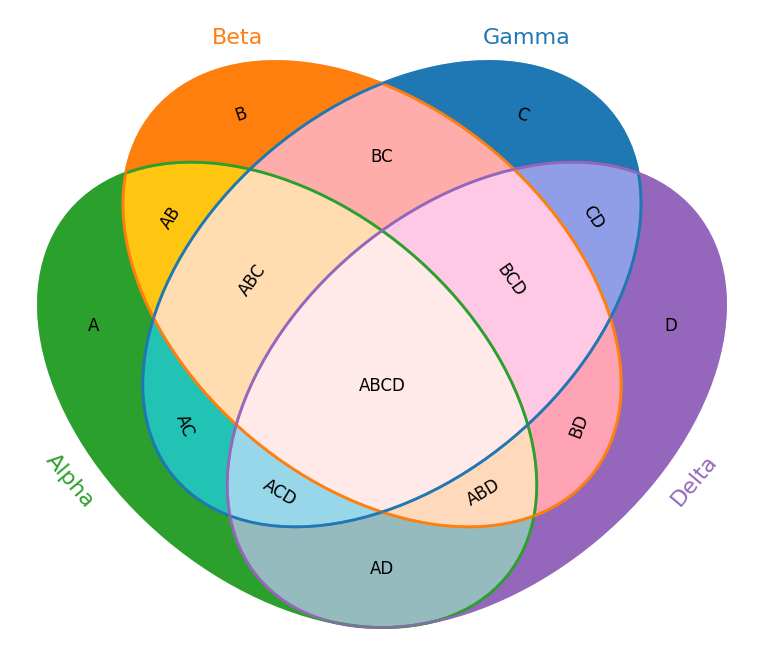
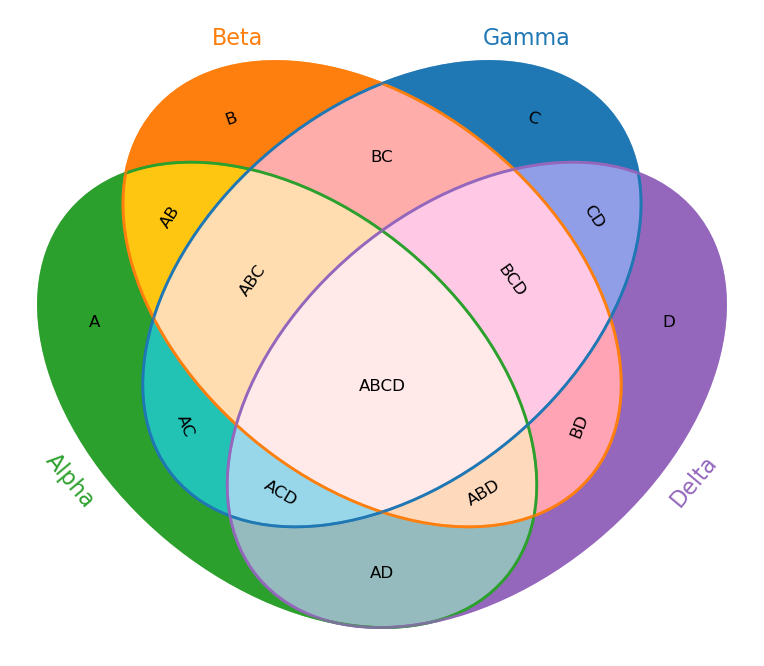
Added visual center calc for label pos

diff --git a/yamvp/main.py b/yamvp/main.py
@@ -22,7 +22,8 @@ import matplotlib.pyplot as plt
 from matplotlib.figure import Figure
 from matplotlib.patches import Ellipse
 from matplotlib.colors import to_rgb
-
+from scipy.ndimage import distance_transform_edt, binary_erosion
+from scipy.cluster.hierarchy import fclusterdata
 
 # ============================================================================
 # Utility helpers (standalone; no external module dependency)
@@ -50,6 +51,15 @@ def _centroid(mask: np.ndarray, X: np.ndarray, Y: np.ndarray) -> Optional[Tuple[
     yy, xx = np.where(mask)
     return (X[yy, xx].mean(), Y[yy, xx].mean())
 
+def _visual_center(mask: np.ndarray, X: np.ndarray, Y: np.ndarray):
+    """
+    Visual center via Euclidean distance transform (SciPy).
+    """
+    if not mask.any():
+        return None
+    dist = distance_transform_edt(mask)
+    yy, xx = np.unravel_index(np.argmax(dist), dist.shape)
+    return float(X[yy, xx]), float(Y[yy, xx])
 
 def _rgb(color: Union[str, tuple]) -> np.ndarray:
     """Convert any Matplotlib color into an RGB float array in [0,1]."""
@@ -124,20 +134,6 @@ def _rotated_envelope(rx: float, ry: float, angle_deg: float) -> Tuple[float, fl
     wy = np.sqrt((rx * s) ** 2 + (ry * c) ** 2)
     return wx, wy
 
-def _binary_erode(mask: np.ndarray) -> np.ndarray:
-    """
-    Fast 3x3 binary erosion without external deps.
-    Erosion keeps a pixel only if all 8 neighbors (and itself) are True.
-    """
-    h, w = mask.shape
-    pad = np.pad(mask, 1, mode='constant', constant_values=False)
-    eroded = np.ones_like(mask, dtype=bool)
-    for dy in (0, 1, 2):
-        for dx in (0, 1, 2):
-            eroded &= pad[dy:dy + h, dx:dx + w]
-    return eroded
-
-
 def _normalize_angle_90(deg: float) -> float:
     """Map any angle (deg) to the equivalent angle in [-90, +90]."""
     a = float(deg)
@@ -147,27 +143,15 @@ def _normalize_angle_90(deg: float) -> float:
         a += 180.0
     return a
 
-
 def _cluster_points(points: np.ndarray, radius: float) -> List[np.ndarray]:
     """
-    Simple agglomerative clustering with a fixed radius.
-    Returns list of cluster centers (means).
+    Cluster points with a fixed radius using SciPy, return cluster centers.
     """
     if len(points) == 0:
         return []
-    pts = points.copy()
-    centers: List[np.ndarray] = []
-    used = np.zeros(len(pts), dtype=bool)
-    for i in range(len(pts)):
-        if used[i]:
-            continue
-        ref = pts[i]
-        d = np.linalg.norm(pts - ref, axis=1)
-        group_idx = (d <= radius)
-        used |= group_idx
-        centers.append(pts[group_idx].mean(axis=0))
+    labels = fclusterdata(points, t=radius, criterion="distance")
+    centers = [points[labels == lab].mean(axis=0) for lab in np.unique(labels)]
     return centers
-
 
 def _circle_intersection_area(r1: float, r2: float, d: float) -> float:
     """
@@ -191,7 +175,6 @@ def _circle_intersection_area(r1: float, r2: float, d: float) -> float:
     term = max(0.0, term)
     inter = r1 * r1 * alpha + r2 * r2 * beta - 0.5 * float(np.sqrt(term))
     return float(inter)
-
 
 def _solve_circle_distance_for_area(r1: float, r2: float, target_area: float,
                                     tol: float = 1e-6, max_iter: int = 100) -> float:
@@ -224,7 +207,6 @@ def _solve_circle_distance_for_area(r1: float, r2: float, target_area: float,
             hi = mid
 
     return 0.5 * (lo + hi)
-
 
 # ============================================================================
 # Geometry helpers (preserve the original layouts)
@@ -263,7 +245,6 @@ def _geom1(
         "size_unit": r,
     }
 
-
 def _geom2(
     sample_res: int = 600,
     spacing_ratio: Optional[float] = None,
@@ -282,7 +263,7 @@ def _geom2(
       proportional to the region values for N=2.
     """
     # Base radius and spacing
-    r0 = 2.0 if radius is None else float(radius)
+    r0 = 1.5 if radius is None else float(radius)
 
     if spacing_ratio is None:
         if d_factor is not None:
@@ -437,7 +418,7 @@ def _geom2(
     # ---- Class label positions ----
     if use_special_labels and inter is not None and radA > 0.0 and radB > 0.0:
         ix, iy = inter
-        offset = 0.18 * size_unit
+        offset = 0.12 * size_unit
 
         # Left circle: OUTSIDE direction (towards left)
         u0L = np.array([-1.0, 0.0], float)
@@ -490,8 +471,8 @@ def _geom2(
     else:
         # Original simple label positions: above each circle, no rotation
         label_pos = [
-            (cxL, cy + 1.22 * radA, 0.0),
-            (cxR, cy + 1.22 * radB, 0.0),
+            (cxL, cy + radA + (radA + radB)*0.08, 0.0),
+            (cxR, cy + radB + (radA + radB)*0.08, 0.0),
         ]
 
     complement_pos = (0.0, cy - 1.35 * r_max)
@@ -512,7 +493,6 @@ def _geom2(
         "region_offsets": region_offsets,
         "size_unit": size_unit,
     }
-
 
 def _geom3(sample_res: int = 800, spacing: float = 1.12):
     """Three circles at the vertices of an equilateral triangle (centroid at origin)."""
@@ -556,6 +536,10 @@ def _geom3(sample_res: int = 800, spacing: float = 1.12):
     ]
     complement_pos = (0.0, ymin - 0.05 * r)
 
+    # For N=3, all disjoint regions use visual centers.
+    region_label_method_default = "visual_center"
+    region_label_method_overrides: Dict[Tuple[int, int, int], str] = {}
+
     return {
         "centers": [(cxA, cyA), (cxB, cyB), (cxC, cyC)],
         "radii":   [(r, r)] * 3,
@@ -567,6 +551,8 @@ def _geom3(sample_res: int = 800, spacing: float = 1.12):
         "limits": (xmin, xmax, ymin, ymax),
         "region_offsets": {},
         "size_unit": r,
+        "region_label_method_default": region_label_method_default,
+        "region_label_method_overrides": region_label_method_overrides,
     }
 
 def _geom4(sample_res: int = 900, spacing : float = 5.6):
@@ -669,10 +655,15 @@ def _geom4(sample_res: int = 900, spacing : float = 5.6):
     lowest_y = min(cA[1] - ry, cB[1] - ry, cC[1] - ry, cD[1] - ry)
     complement_pos = (diag_center[0], lowest_y - (float(complement_offset) * size_unit))
 
-    # Region-specific nudges
-    region_offsets: Dict[Tuple[int, int, int, int], Tuple[float, float]] = {}
-    region_offsets[(1, 0, 0, 0)] = (-0.10 * size_unit, 0.2 * size_unit)  # A-only
-    region_offsets[(0, 0, 0, 1)] = ( 0.10 * size_unit, 0.2 * size_unit)  # D-only
+    # Region-specific label method:
+    region_label_method_default = "centroid"
+    region_label_method_overrides: Dict[Tuple[int, int, int, int], str] = {
+        (1, 0, 0, 0): "visual_center",  # A
+        (0, 1, 0, 0): "visual_center",  # B
+        (0, 0, 1, 0): "visual_center",  # C
+        (0, 0, 0, 1): "visual_center",  # D
+        (1, 0, 0, 1): "visual_center",  # AD
+    }
 
     # Pack label positions with rotations
     label_positions_with_rot = [(xy[0], xy[1], rot) for xy, rot in zip(label_positions, label_rotations)]
@@ -686,10 +677,11 @@ def _geom4(sample_res: int = 900, spacing : float = 5.6):
         "label_positions": label_positions_with_rot,
         "complement_pos": complement_pos,
         "limits": (xmin, xmax, ymin, ymax),
-        "region_offsets": region_offsets,
+        "region_offsets": {},
         "size_unit": size_unit,
+        "region_label_method_default": region_label_method_default,
+        "region_label_method_overrides": region_label_method_overrides,
     }
-
 
 def _geom5(sample_res: int = 900):
     """
@@ -819,6 +811,9 @@ def _geom5(sample_res: int = 900):
     region_offsets[(0, 1, 0, 1, 1)] = ( -0.015 * size_unit, 0.0 * size_unit)  # BDE-only
     region_offsets[(0, 1, 1, 1, 0)] = ( -0.005 * size_unit, -0.005 * size_unit)  # BCD-only
     region_offsets[(1, 0, 1, 0, 1)] = ( -0.002 * size_unit, 0.005 * size_unit)  # ACE-only
+    
+    region_label_method_default = "centroid"
+    region_label_method_overrides: Dict[Tuple[int, int, int, int, int], str] = {}
 
     return {
         "centers": centers,
@@ -830,9 +825,10 @@ def _geom5(sample_res: int = 900):
         "complement_pos": complement_pos,
         "limits": (xmin, xmax, ymin, ymax),
         "region_offsets": region_offsets,
-        "size_unit": size_unit
+        "size_unit": size_unit,
+        "region_label_method_default": region_label_method_default,
+        "region_label_method_overrides": region_label_method_overrides,
     }
-
 
 # ============================================================================
 # Generic renderer
@@ -1035,6 +1031,8 @@ def venn(
     # ---- Region values (per disjoint area) ----
     size_unit = float(geom["size_unit"])
     region_offsets = geom.get("region_offsets", {})
+    region_label_method_default = geom.get("region_label_method_default", None)
+    region_label_method_overrides = geom.get("region_label_method_overrides", {})
 
     # Compute ideal rotations per region (if enabled)
     region_rotations: Dict[Tuple[int, ...], float] = {}
@@ -1050,7 +1048,7 @@ def venn(
                 continue
 
             # Region boundary
-            eroded = _binary_erode(mask)
+            eroded = binary_erosion(mask, structure=np.ones((3, 3), bool), border_value=0)
             boundary = mask & (~eroded)
             by, bx = np.where(boundary)
             if by.size < 6:
@@ -1166,6 +1164,8 @@ def venn(
     for key, mask in masks.items():
         if not any(key):
             continue  # skip all-zeros region here (handled as complement below)
+        if not mask.any():
+            continue
         value = arr[key]
         if value is None:
             continue
@@ -1191,8 +1191,21 @@ def venn(
             dx = dy = 0.0
             rot_val = 0.0
             down_vec = np.array([0.0, 0.0], float)
-        else:
+        elif N == 1:
             pos = _centroid(mask, X, Y)
+            if pos is None:
+                continue
+            dx = dy = 0.0
+            rot_val = float(region_rotations.get(key, 0.0))
+            theta = np.deg2rad(rot_val)
+            down_vec = np.array([np.sin(theta), -np.cos(theta)], float) * down_len_data
+        else:
+            # N >= 3: choose between centroid and visual_center
+            method = region_label_method_overrides.get(key, region_label_method_default or "centroid")
+            if method == "visual_center":
+                pos = _visual_center(mask, X, Y)
+            else:
+                pos = _centroid(mask, X, Y)
             if pos is None:
                 continue
             dx, dy = region_offsets.get(tuple(map(int, key)), (0.0, 0.0))

diff --git a/setup.py b/setup.py
@@ -5,7 +5,7 @@ with open("README.md", "r") as fh:
 
 setup(
     name="yamvp",
-    version="0.2",
+    version="0.4",
     author="Bálint Csanády",
     python_requires='>3.6',
     author_email="csbalint@protonmail.ch",
@@ -15,7 +15,7 @@ setup(
     long_description_content_type="text/markdown",
     url="https://github.com/aielte-research/yamvp.git",
     keywords=
-    "Venn, Venn diagram, Matplotlib, 4 sets, 5 sets, visualization, plotting",
+    "Venn, Venn diagram, Matplotlib, 4 sets, 5 sets, visualization, plotting, area-proportional",
     packages=find_packages(),
     classifiers=[
         "Programming Language :: Python :: 3",
@@ -23,5 +23,5 @@ setup(
         "Operating System :: OS Independent",
         "Topic :: Scientific/Engineering :: Mathematics",
     ],
-    install_requires=["numpy", "matplotlib"],
+    install_requires=["numpy", "scipy", "matplotlib"],
 )
